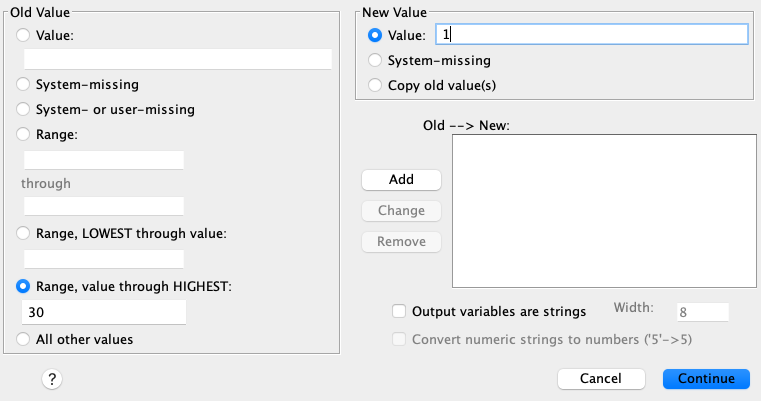
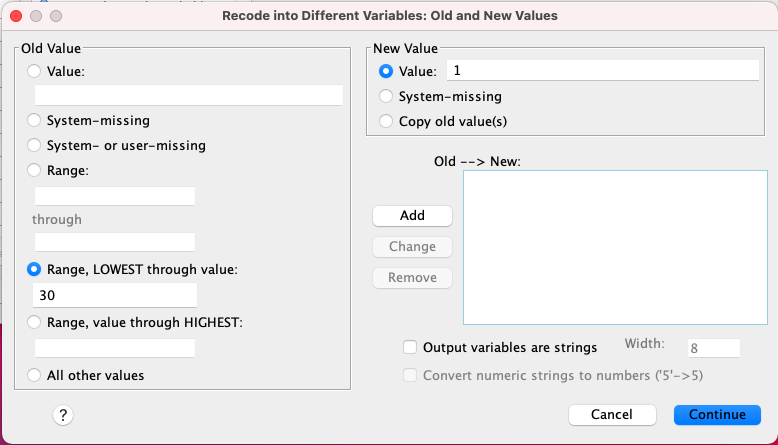
A lot of new sections and pics

diff --git a/SPSS_md_1_chapter.md b/SPSS_md_1_chapter.md
@@ -110,7 +110,6 @@ As your second task:
 3. Add labels to your variables, namely  "Respondent's salary", "Age of a respondent",  and "Gender" to corresponding variables
 4. For the gender variables add values: 1 - Male, 2 - Female, 3 - Other (specified)
 
-
 ---
 
 
@@ -131,10 +130,41 @@ We will be working with a variable called `agea` (Age of respondent...). Find an
 
 ![moved variable](./img/moved_var.png)
 
+As you can see, it now shows `agea ---> ?` which means that SPSS wants you to name a new variable with recoded values. In order to do that provide it with a new name in the `Name` box in the `Output variable area` on the right. Let's call it `age_re` and give it a label of "Age groups". Don't forget to click **Change** once you have given all the details of the new variable. Now all the recoded values will be stored in `age_re`.
+
+Now it's time for the actual recoding. CLick on the **Old and New Values...** button to create recoding rules. Once you clicked it you will see a new window. In this window we can create rules for recoding. First, let's create group 1 that are aged 30 and below. For that let's set these settings here:
+
 ![age group 1](./img/age_group_1.png)
+
+Once you inputed the values, find the **Add** button and click it. It should show a new line in the `Old --> New` box. If it did, you did everything correctly. Now let's create group 2 aged 31 to 50 like this. 
 
 ![age group 2](./img/age_group_2.png)
 
+Don't forget to click **Add** again for that one. The last group will be the ones 51 and older. We can do it like this:
+
 ![age group 3](./img/age_group_3.png)
 
-![output window](./img/output.png)
+Perfect! Now we can click **Continue** in this window and the next one. Once you did it SPSS will navigate you to the **Outout** window that should look somewhat like this:
+
+![output recode](./img/recode_output.png)
+
+In this window SPSS will show you what code it executes. In this case it basically told us:
+
+> *Hey! I recoded the agea variable into age_re using the rules you provided it and labeled it "Age groups".*
+
+Go ahead and check whether the values are recoded correctly by switching to **Data View* and exploring the values of `agea` and `age_re`. 
+
+
+---
+
+### Challenge 3: Recoding a variable
+
+There are several variables evaluating trust in this database. Each measure trust from 0 (No trust) to 10 (Complete trust). Take the variable `trstprl` (Trust in country's parliament) and recode it into a new variable with 3 categories:
+
+1. Low trust: Values from 0 to 4
+2. Moderate trust: Values from 5 to 7
+3. High trust: Values from  8 to 10
+
+Not only create new categories as 1,2 and 3, but label them as Low, Middle and High trust in the **Variable view**. 
+
+---
